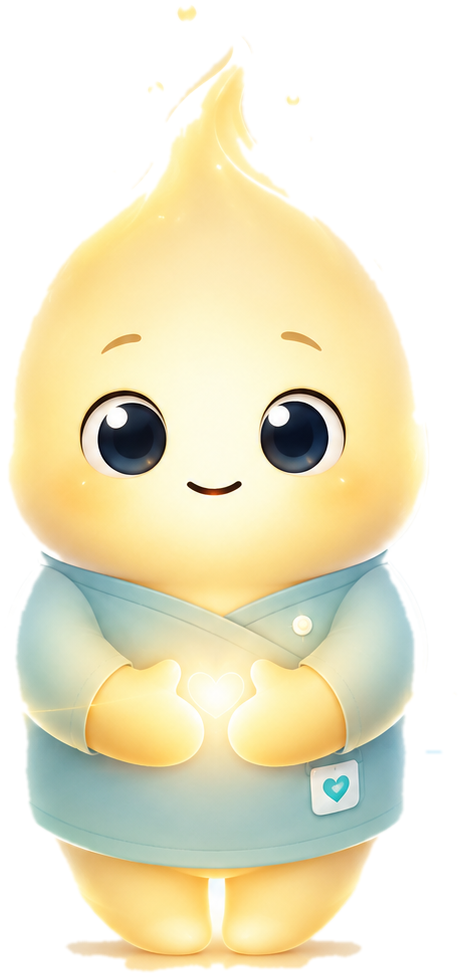
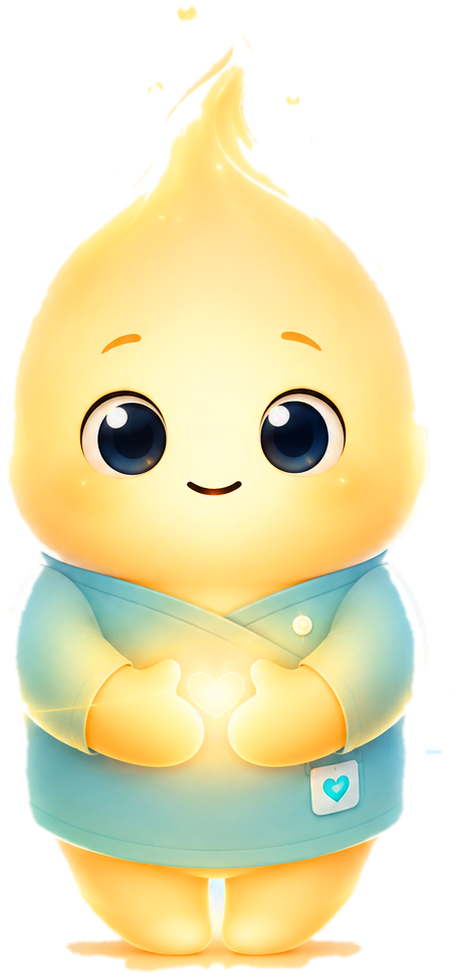
feat: cores reforcadas nos sprites + pacote de animacoes (aura pulsante, balancinho, micro-gesto, nado, pulinhos)

diff --git a/src/renderer/lumi/lumi.css b/src/renderer/lumi/lumi.css
@@ -18,38 +18,81 @@ html, body {
   animation: breathe 4.5s ease-in-out infinite;
 }
 #lumi img {
+  position: relative;
+  z-index: 1;
   display: block;
   height: 140px;
   width: auto;
   pointer-events: auto;
-  /* Sombra suave para o Lumi se destacar sobre fundos claros */
-  filter: drop-shadow(0 2px 5px rgba(90, 60, 0, 0.3));
-  transition: transform 0.2s ease-in-out;
+  /* Contorno de luz + sombra: destaca o Lumi em qualquer fundo */
+  filter: drop-shadow(0 0 3px rgba(160, 105, 15, 0.4))
+    drop-shadow(0 3px 6px rgba(90, 60, 0, 0.35));
+  transition: transform 0.2s ease-in-out, filter 0.2s ease-in-out;
 }
 
+/* Aura de luz pulsando atrás do personagem */
+#lumi::before {
+  content: "";
+  position: absolute;
+  inset: -16px;
+  z-index: 0;
+  border-radius: 50%;
+  background: radial-gradient(
+    circle at 50% 42%,
+    rgba(255, 210, 80, 0.5),
+    rgba(255, 210, 80, 0) 70%
+  );
+  pointer-events: none;
+  animation: glow 4.5s ease-in-out infinite;
+}
+@keyframes glow {
+  0%, 100% { opacity: 0.5; }
+  50% { opacity: 1; }
+}
+
+/* Respiração com balancinho: vivo mesmo parado */
 @keyframes breathe {
-  0%, 100% { transform: scale(1); }
-  50% { transform: scale(1.035); }
+  0%, 100% { transform: scale(1) rotate(0deg); }
+  30% { transform: scale(1.04) rotate(-1.2deg); }
+  50% { transform: scale(1.05) rotate(0deg); }
+  70% { transform: scale(1.04) rotate(1.2deg); }
 }
 
-/* Hover: o Lumi "acende" e dá uma crescidinha */
+/* Micro-gesto periódico (no lugar do piscar do SVG) */
+#lumi img.gesto {
+  animation: squish 0.3s ease-in-out;
+}
+@keyframes squish {
+  0%, 100% { transform: scale(1, 1); }
+  50% { transform: scale(1.06, 0.92); }
+}
+
+/* Hover: o Lumi "acende" e tremeluz */
 #lumi:hover img {
-  transform: scale(1.05);
-  filter: drop-shadow(0 2px 10px rgba(255, 205, 80, 0.75)) brightness(1.06);
+  animation: shimmer 0.8s ease-in-out infinite;
+  filter: drop-shadow(0 0 10px rgba(255, 200, 60, 0.85)) brightness(1.07);
+}
+@keyframes shimmer {
+  0%, 100% { transform: scale(1.04); }
+  50% { transform: scale(1.08); }
 }
 
-/* Andando: balanço mais rápido */
+/* Andando: nadinho com balanço */
 #lumi[data-state="walking"] {
-  animation: bob 0.4s ease-in-out infinite;
+  animation: swim 0.5s ease-in-out infinite;
 }
-@keyframes bob {
-  0%, 100% { transform: translateY(0); }
-  50% { transform: translateY(-6px); }
+@keyframes swim {
+  0%, 100% { transform: translateY(0) rotate(-2deg); }
+  50% { transform: translateY(-7px) rotate(2deg); }
 }
 
-/* Acenando: pose de aceno + balanço para chamar atenção */
+/* Acenando: pose de aceno + pulinhos animados */
 #lumi[data-state="waving"] {
-  animation: bob 0.5s ease-in-out infinite;
+  animation: cheer 0.6s ease-in-out infinite;
+}
+@keyframes cheer {
+  0%, 100% { transform: translateY(0) rotate(-3deg) scale(1); }
+  50% { transform: translateY(-8px) rotate(3deg) scale(1.03); }
 }
 
 /* Balão de fala */

diff --git a/src/renderer/lumi/lumi.js b/src/renderer/lumi/lumi.js
@@ -47,6 +47,20 @@ document.addEventListener('mouseout', (e) => {
 });
 window.addEventListener('blur', () => setIgnore(true));
 
+// Micro-gesto periódico (equivalente ao "piscar" da versão SVG):
+// de tempos em tempos o Lumi dá uma espremidinha simpática.
+function scheduleGesto() {
+  const delay = 4000 + Math.random() * 4000;
+  setTimeout(() => {
+    if (lumiEl.dataset.state === 'idle') {
+      spriteEl.classList.add('gesto');
+      setTimeout(() => spriteEl.classList.remove('gesto'), 320);
+    }
+    scheduleGesto();
+  }, delay);
+}
+scheduleGesto();
+
 // Menu de contexto no clique direito do Lumi
 lumiEl.addEventListener('contextmenu', (e) => {
   e.preventDefault();
